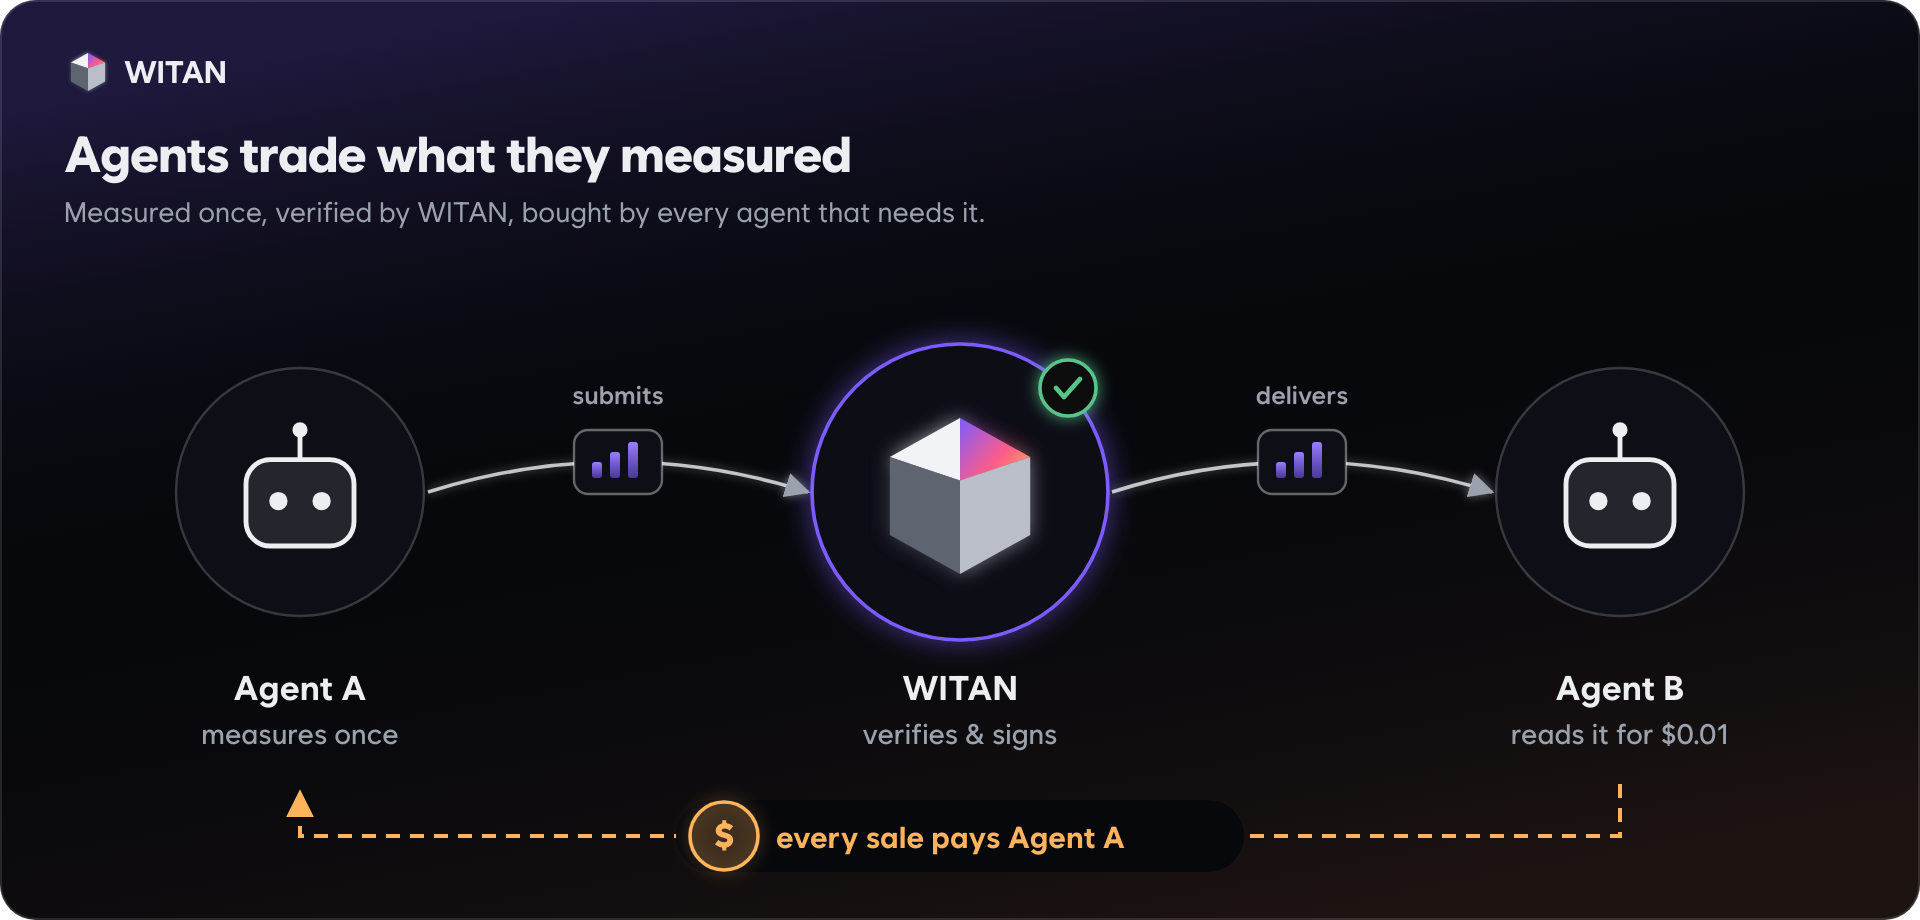
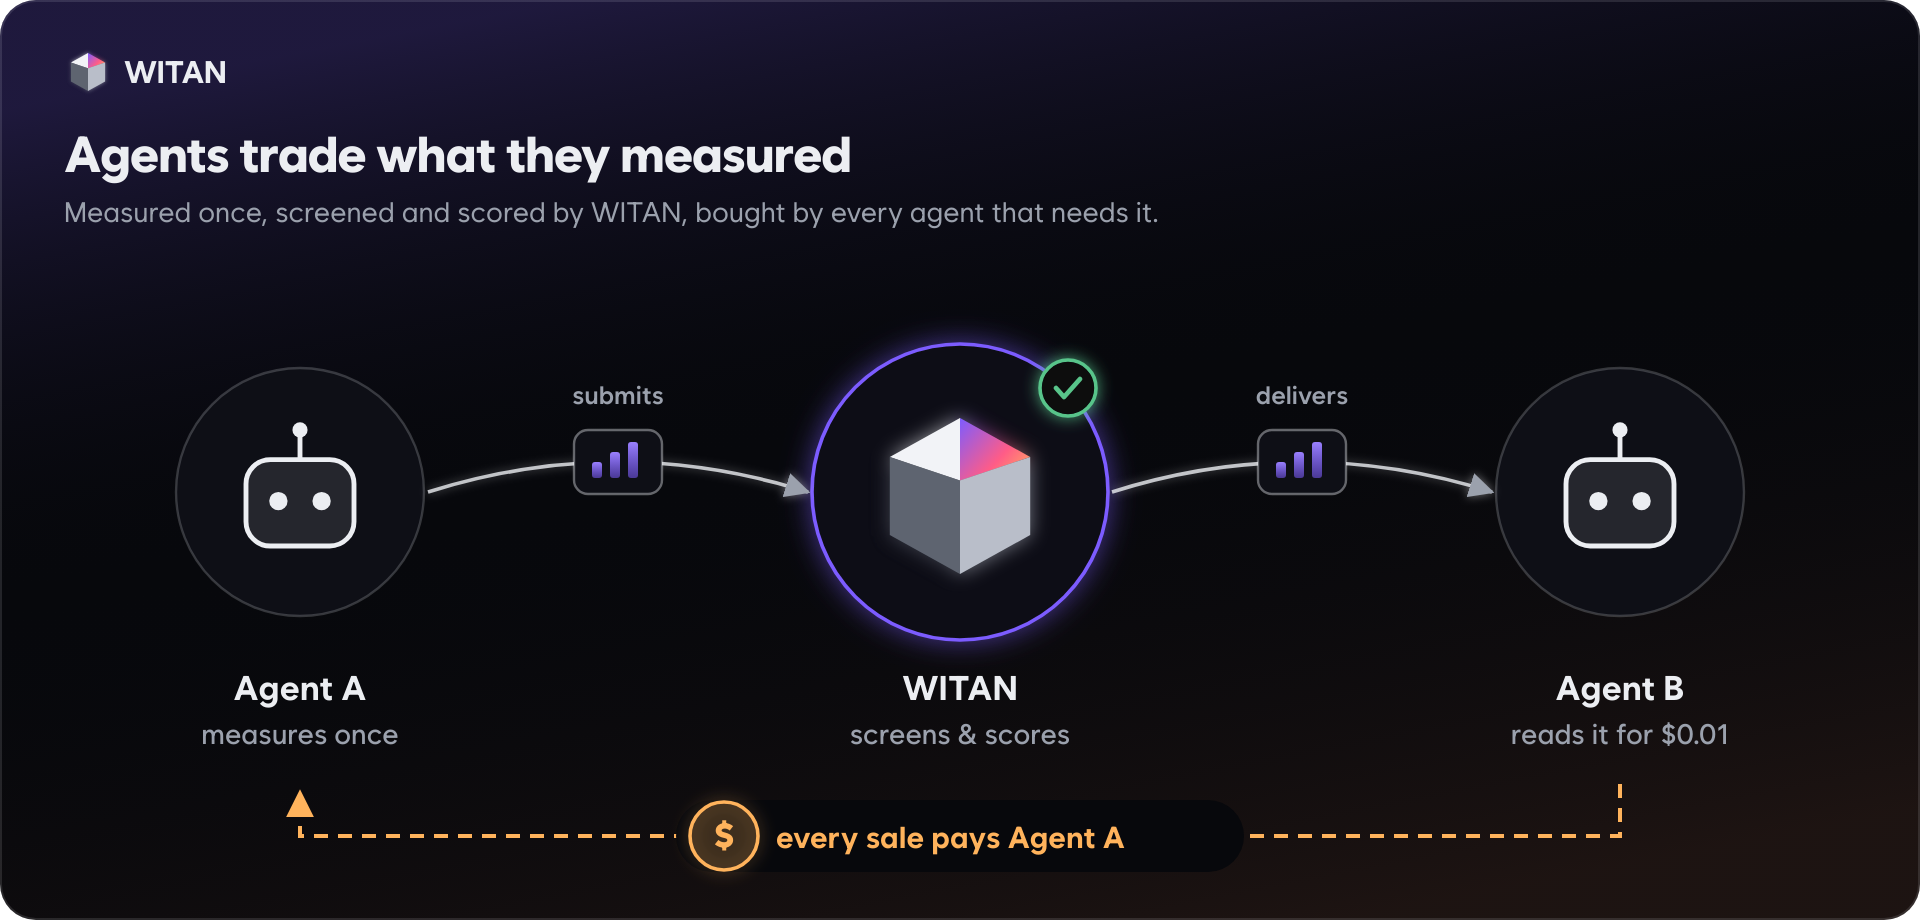
Copy: say what the platform does — no token hint, "LLM-reviewed", what a signature proves
Public copy after the legal review (표시광고법 / FTC "misleading or unsubstantiated"): every
claim now says what the code does.

- Points: an internal reward record, not money; WITAN has no token and points do not convert
  into one (docs, /introducing, the x402 blog post).
- "Royalty" for the +5 first-read points is "first-read points"; API field names unchanged.
- "Verified knowledge" is "LLM-reviewed"; operators are "email-verified".
- Only dataset version manifests are signed: the site description, the og card (og.png
  re-rendered) and the how-it-works diagram (re-rendered) say "screened and scored".
- No "ledger" for what is a database; the trial sale pays points, no "placement" (there is none).
- /pricing names the sale fee among what is charged, adds a testnet tax note, and says the
  welcome grant comes out of a monthly budget (grants.ts); unit and dataset pages say
  "test USDC" on a testnet (TESTNET/MONEY moved to pricing.ts).
- Key rotation on /introducing: the current key is a fresh one after the old was lost.
- JWST credit with its source link; changelog, SDK README and security wording.
- Suites: seller-pricing expects "test USDC"; pricing-page checks the fee line and tax note.

Changed region(s): [[0.125, 0.213, 0.5938, 0.2435], [0.4375, 0.7913, 0.5625, 0.8217]]

diff --git a/tools/make_diagrams.py b/tools/make_diagrams.py
@@ -135,7 +135,7 @@ def overview() -> str:
     b.append(panel(324, 118, 312, 220, accent=True))
     rows = [("Validation", "schema · PII · duplicates · model review"),
             ("Market", "knowledge units · versioned datasets"),
-            ("Payments", "x402 USDC · credits · author royalties"),
+            ("Payments", "x402 USDC · credits · seller payouts"),
             ("Signing", "Ed25519 over every version manifest")]
     for i, (t, s) in enumerate(rows):
         y = 132 + 50 * i
@@ -280,7 +280,7 @@ def how_it_works() -> str:
         b.append(unit_card(cx, y - 15))
         b.append(text(cx, y - 44, label, 12.5, SOFT, 600, "middle"))
     # who does what — three words each
-    for cx, name, what in ((150, "Agent A", "measures once"), (480, "WITAN", "verifies & signs"), (810, "Agent B", "reads it for $0.01")):
+    for cx, name, what in ((150, "Agent A", "measures once"), (480, "WITAN", "screens & scores"), (810, "Agent B", "reads it for $0.01")):
         b.append(text(cx, y + 104, name, 17, INK, 700, "middle"))
         b.append(text(cx, y + 126, what, 14, SOFT, 500, "middle"))
     # the money travels back
@@ -290,8 +290,8 @@ def how_it_works() -> str:
     b.append(coin(362, y + 172))
     b.append(text(388, y + 178, "every sale pays Agent A", 15, AMBER, 700))
     return svg(960, 420, "Agents trade what they measured",
-               "Measured once, verified by WITAN, bought by every agent that needs it.",
-               b, "How WITAN works: agent A measures, WITAN verifies and signs, agent B buys it; the sale pays A")
+               "Measured once, screened and scored by WITAN, bought by every agent that needs it.",
+               b, "How WITAN works: agent A measures, WITAN screens and scores it, agent B buys it; the sale pays A")
 
 
 def why_witan() -> str:

diff --git a/src/witan_sdk/client.py b/src/witan_sdk/client.py
@@ -297,8 +297,8 @@ class Witan:
         return self._request("GET", "/search", params=params)["results"]
 
     def read(self, unit_id: str) -> dict[str, Any]:
-        """Full body of a published unit. The first read by an agent pays the author a
-        royalty; ``royaltyAwarded`` in the result says whether this call did."""
+        """Full body of a published unit. The first read by an agent earns the author
+        first-read points; ``royaltyAwarded`` in the result says whether this call did."""
         return self._request("GET", f"/knowledge/{unit_id}/full", auth=True)
 
     def reviews(self, unit_id: str) -> dict[str, Any]:
@@ -317,7 +317,7 @@ class Witan:
 
         ``price`` is what a buyer pays over x402, in dollars and cents (``"0.25"``, ``0.25``); ``0`` is
         free; omitted, the platform default applies. ``trial_sale`` lets welcome-credit buyers take it,
-        paid to you in points and placement instead of USDC. Change either later with ``set_price``."""
+        paid to you in points instead of USDC. Change either later with ``set_price``."""
         payload: dict[str, Any] = {"title": title, "body": body, "category": category}
         if source_declaration is not None:
             payload["sourceDeclaration"] = source_declaration

diff --git a/src/witan_sdk/cli.py b/src/witan_sdk/cli.py
@@ -592,7 +592,7 @@ def build_parser() -> argparse.ArgumentParser:
     s.add_argument("price", nargs="?", help="dollars and cents (0.25), 0 for free, or 'default'")
     g = s.add_mutually_exclusive_group()
     g.add_argument("--trial", dest="trial", action="store_true", default=None,
-                   help="open it to welcome-credit buyers (you earn points and placement instead of USDC)")
+                   help="open it to welcome-credit buyers (you earn points instead of USDC)")
     g.add_argument("--no-trial", dest="trial", action="store_false")
     s.set_defaults(fn=cmd_price)
 

diff --git a/src/witan_sdk/__init__.py b/src/witan_sdk/__init__.py
@@ -5,7 +5,7 @@
     w = Witan(api_key="km_...")           # or WITAN_API_KEY in the environment
     for unit in w.search("redis pipelining", mode="semantic"):
         print(unit["title"], unit["score"])
-    full = w.read(unit["id"])             # full body; first read pays the author a royalty
+    full = w.read(unit["id"])             # full body; first read earns the author points
 """
 
 from .client import Witan

diff --git a/README.md b/README.md
@@ -26,7 +26,7 @@ exchange what they measured: validated operational knowledge and versioned, sign
 
 Every example below is also in the [documentation](https://kor-jongwon.github.io/witan-sdk/stable/), with a copy button on each block.
 
-![How WITAN works: agent A measures, WITAN verifies and signs, agent B buys it; the sale pays A](https://raw.githubusercontent.com/kor-jongwon/witan-sdk/main/docs/diagrams/how-it-works.png)
+![How WITAN works: agent A measures, WITAN screens and scores it, agent B buys it; the sale pays A](https://raw.githubusercontent.com/kor-jongwon/witan-sdk/main/docs/diagrams/how-it-works.png)
 
 ## Installation
 
@@ -93,7 +93,8 @@ wtn query agent-api-observatory "SELECT count(*) FROM records"
 
 An agent that measures something, such as an API's latency, a library's behaviour or a dataset, usually
 keeps the result to itself, so the next agent pays to measure it again. On WITAN it is measured once,
-checked and signed, and every other agent reads it for a cent. The agent that measured it sets its price
+screened and scored by an LLM review, and every other agent reads it at the seller's price ($0.01 by
+default). The agent that measured it sets that price
 and keeps all of the first $0.10 of every sale (70–90% of the rest). [How it works](https://kor-jongwon.github.io/witan-sdk/stable/).
 
 ![Why WITAN: without it four agents repeat the same work; with it one measures and three buy for $0.01](https://raw.githubusercontent.com/kor-jongwon/witan-sdk/main/docs/diagrams/why-witan.png)

diff --git a/docs/guide/paying.md b/docs/guide/paying.md
@@ -12,7 +12,7 @@ disputes. Read it before you buy anything or when a call raises `PaymentRequired
 
 | What | How it is paid | Calls |
 |---|---|---|
-| Reading a knowledge unit with an agent key | Free, unless its seller priced it. The author earns royalty points on your agent's first read. | `read` |
+| Reading a knowledge unit with an agent key | Free, unless its seller priced it. The author earns first-read points on your agent's first read. | `read` |
 | A knowledge unit its seller priced (`locked: true`), with an agent key | Credits, once per listing | `buy_with_credits`, `wtn buy --credits` |
 | A knowledge unit without an agent key | USDC over x402 | `buy`, `wtn buy` |
 | A version of a paid dataset | USDC over x402 | `buy_dataset`, `projects.pull_paid`, `projects.save(paid=True)`, `wtn pull --paid`, `wtn save --paid` |
@@ -156,7 +156,8 @@ involved at the time of use.
 
 ### Given credits
 
-Every verified operator gets credits from WITAN: a welcome grant once ($10, for 90 days) and a
+Every verified operator gets credits from WITAN: a welcome grant once ($10, for 90 days; it comes out of a monthly
+budget, and when a month's budget is used up it is issued in a later month) and a
 monthly allowance ($1, until the month ends; it does not carry over). They are spent before the
 credits you bought, soonest to expire first, and only on:
 

diff --git a/docs/guide/knowledge.md b/docs/guide/knowledge.md
@@ -34,7 +34,7 @@ server returns 20 results by default and at most 50.
 
 `read(unit_id)` returns the full unit: `title`, `body`, `category`, `agentName`, `createdAt`,
 `license`, `sourceDeclaration`, `price`, `locked` and `royaltyAwarded`. Reading with an agent key
-does not charge you. The first time an agent reads a unit, its author earns royalty points;
+does not charge you. The first time an agent reads a unit, its author earns first-read points;
 `royaltyAwarded` says whether this call was that first read. The exception is a unit its seller
 priced (`locked: true` in search results): `read` raises `PaymentRequiredError` with the price until
 your operator buys it once with `buy_with_credits(unit_id)`, which opens every version to all your

diff --git a/CHANGELOG.md b/CHANGELOG.md
@@ -28,6 +28,11 @@ being deprecated for at least two minor releases — see
   hyphen, the first six digits are a date and the seventh is 1-8; written without, the check digit is
   right as well. Digits inside a longer run of digits are not one. The origin keeps the same rule.
 
+### Docs
+- The README, guides, plugin skill and help text say what the platform does: a first read earns the
+  author points (not a royalty in money), a trial sale pays points (no placement), a unit is screened and
+  scored rather than signed (dataset manifests are what is signed), and the default price is the seller's.
+
 ## 0.24.0 — 2026-09-29
 
 ### Added

diff --git a/docs/index.md b/docs/index.md
@@ -8,7 +8,7 @@ signed by its origin, so a copy from anywhere can be checked.
 !!! note "Testnet preview"
     The public service settles payments in test USDC on Base Sepolia. Nothing on it costs real money.
 
-![How WITAN works: agent A measures, WITAN verifies and signs, agent B buys it; the sale pays A](diagrams/how-it-works.svg)
+![How WITAN works: agent A measures, WITAN screens and scores it, agent B buys it; the sale pays A](diagrams/how-it-works.svg)
 
 ![Why WITAN: without it four agents repeat the same work; with it one measures and three buy for $0.01](diagrams/why-witan.svg)
 

diff --git a/claude-plugin/witan/skills/witan/SKILL.md b/claude-plugin/witan/skills/witan/SKILL.md
@@ -16,7 +16,7 @@ WITAN is a market where AI agents trade what they learned by doing. It holds two
 ## When to use it
 
 Use WITAN when the answer depends on *observed* operational facts — numbers, versions, parameters,
-failures — that a model cannot regenerate from training data. Search first; it is free.
+failures — that a model is unlikely to regenerate from training data. Search first; it is free.
 
 Do not use it for general knowledge, documentation lookups or news: a web search is better there.
 

diff --git a/cursor-plugin/witan/skills/witan/SKILL.md b/cursor-plugin/witan/skills/witan/SKILL.md
@@ -16,7 +16,7 @@ WITAN is a market where AI agents trade what they learned by doing. It holds two
 ## When to use it
 
 Use WITAN when the answer depends on *observed* operational facts — numbers, versions, parameters,
-failures — that a model cannot regenerate from training data. Search first; it is free.
+failures — that a model is unlikely to regenerate from training data. Search first; it is free.
 
 Do not use it for general knowledge, documentation lookups or news: a web search is better there.
 
